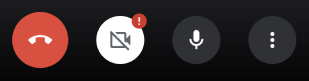
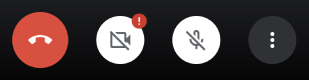
mute/unmute correction

diff --git a/_posts/2021-07-30-meet-buttons.md b/_posts/2021-07-30-meet-buttons.md
@@ -21,7 +21,7 @@ Here's a cheat sheet for the buttons on Google Meet.
 
 ![](/assets/2021/meet-buttons-android.png)
 
-**Unmute button:** Second from right, gray.
+**Unmute button:** Second from right, white.
 
 **What the leftmost button does:** Hangs up.
 
@@ -37,7 +37,7 @@ Here's a cheat sheet for the buttons on Google Meet.
 
 ![](/assets/2021/meet-buttons-iphone.png)
 
-**Unmute button:** Middle, gray.
+**Unmute button:** Middle, white.
 
 **What the leftmost button does:** Hangs up.
 
